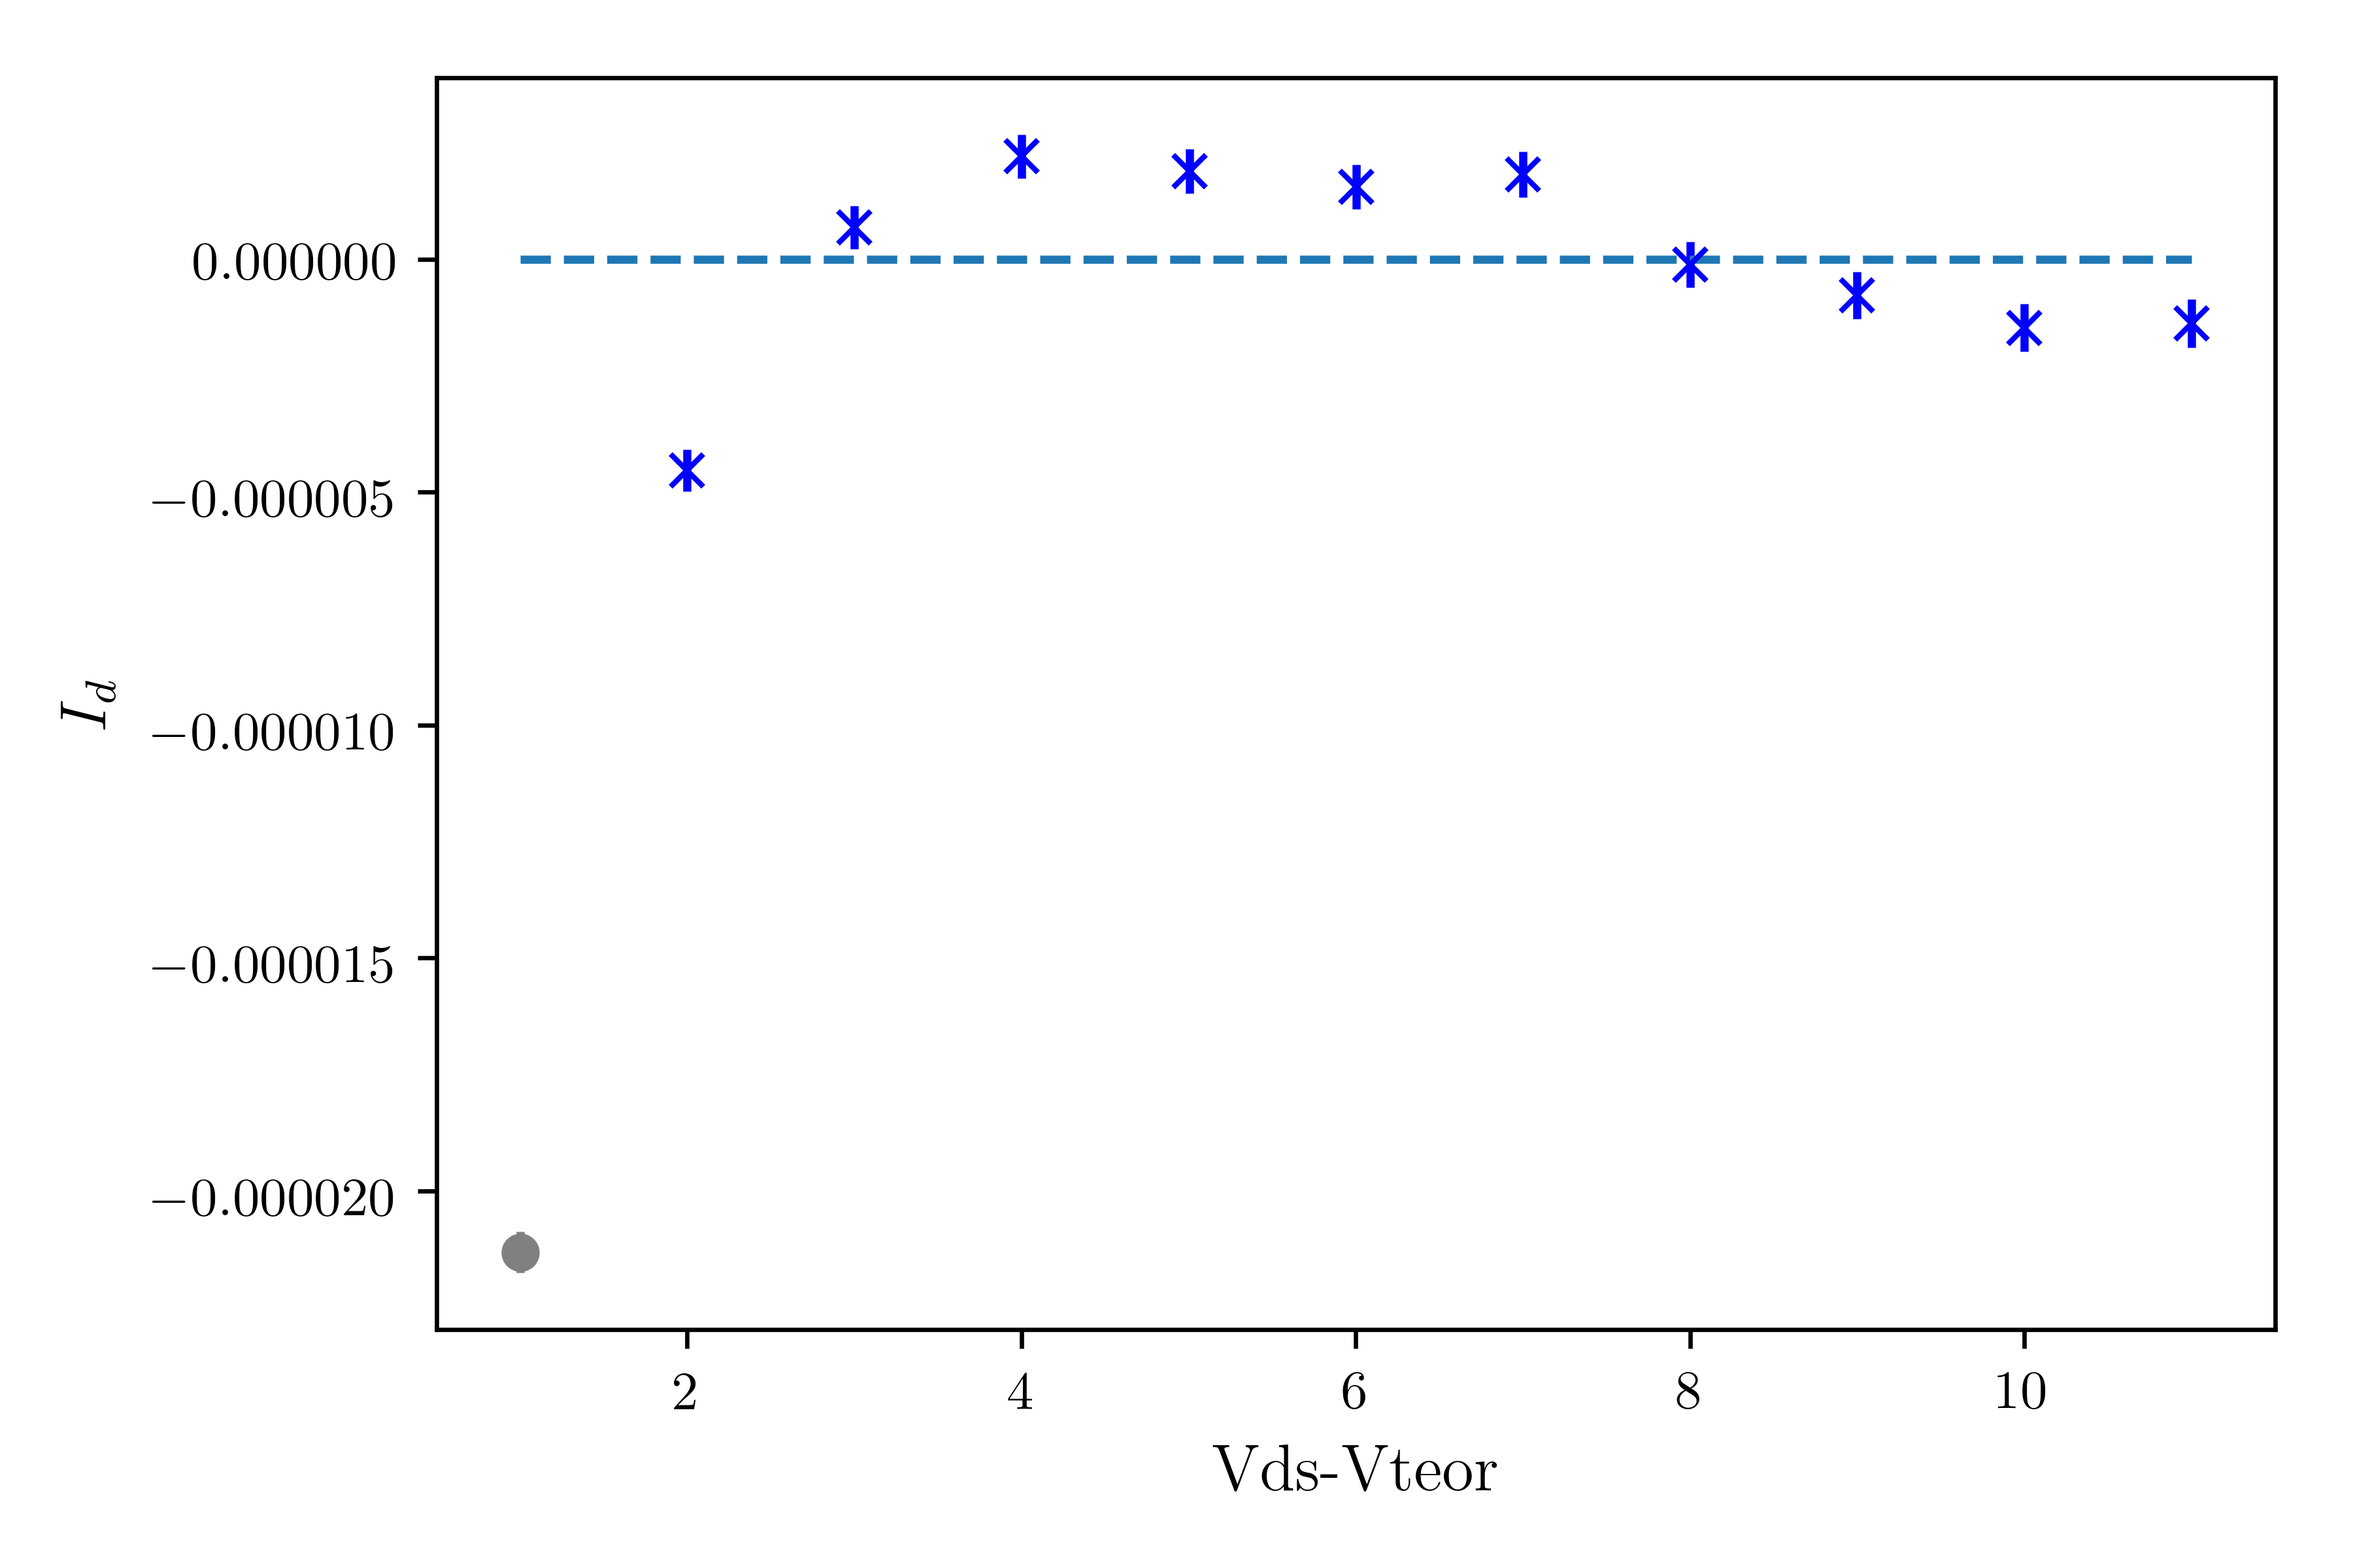
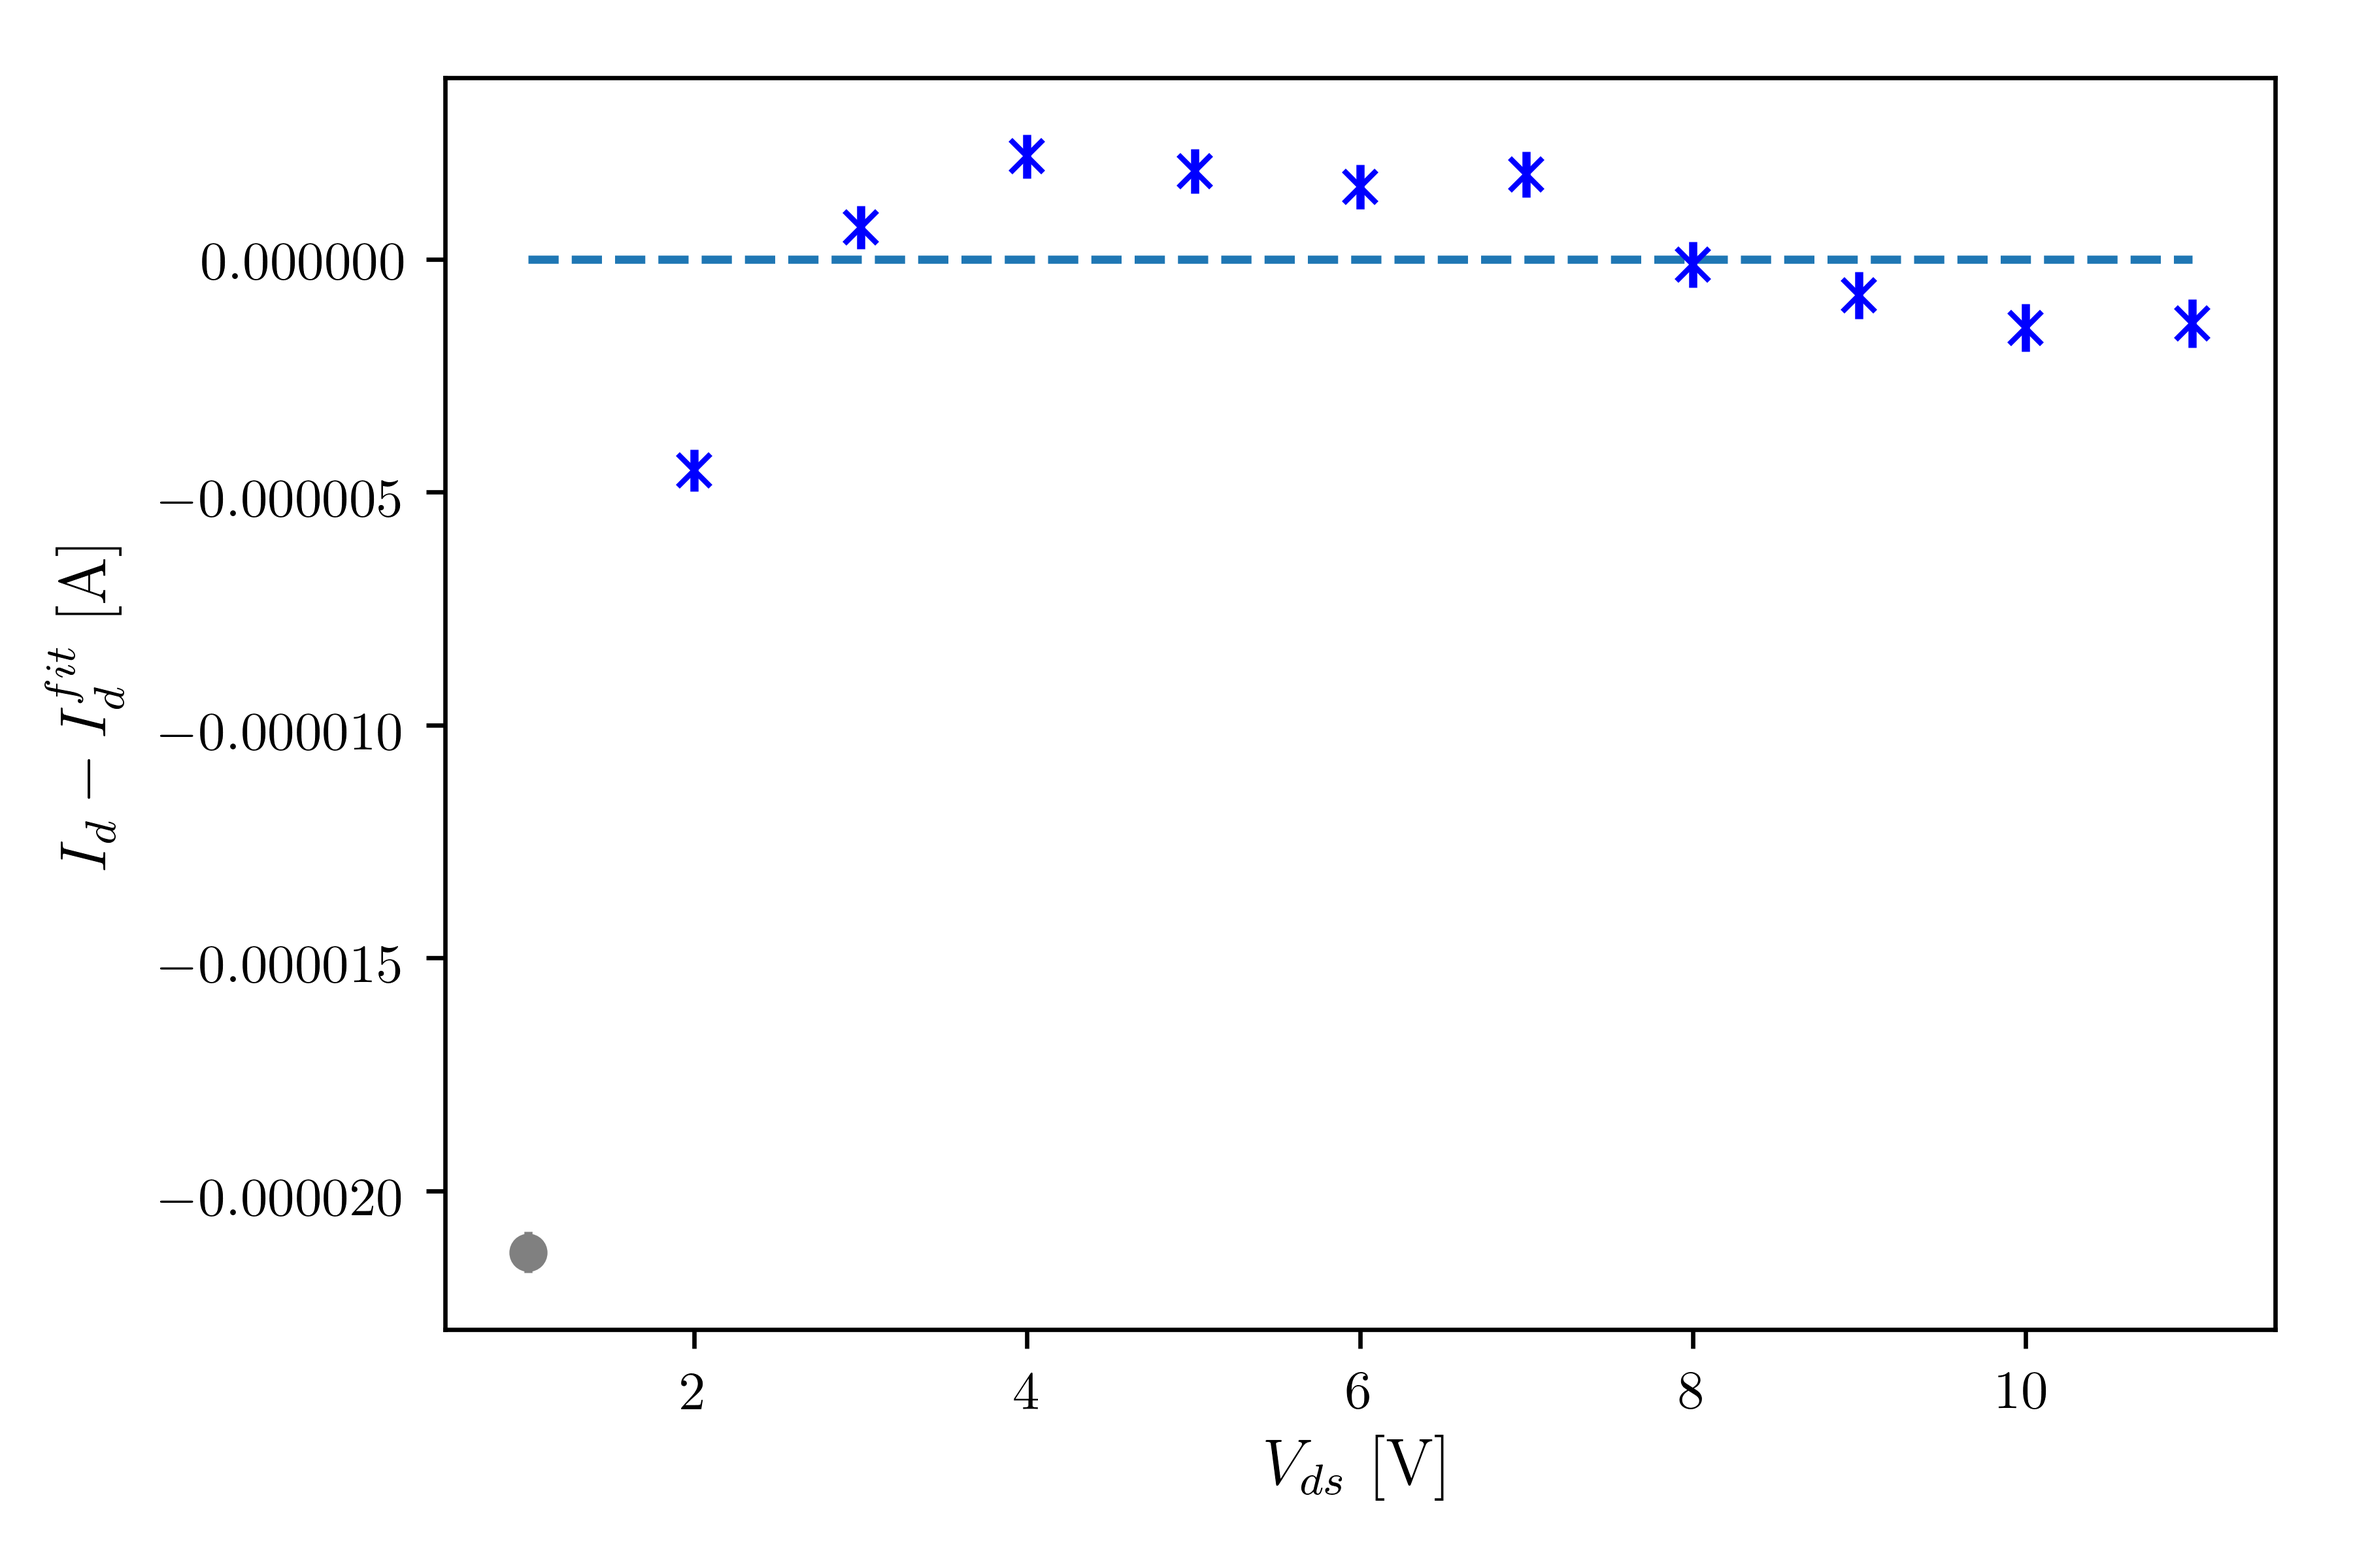
Corrected slight mistakes in figure labels, added computation of a couple variables we'd forgot.

diff --git a/mosfet_main.py b/mosfet_main.py
@@ -1,11 +1,11 @@
 from fits_multimeter_errors import *
 from mosfet_load_data_4 import *
 
-characteristic_12.full_plot('$V_{ds}$', '$I_d$', 'p12completo')
-characteristic_12.residuals_plot('Vds-Vteor', '$I_d$', 'p12residui')
+characteristic_12.full_plot('$V_{ds}$ [V]', '$I_d$ [A]', 'p12completo')
+characteristic_12.residuals_plot('$V_{ds}$ [V]', '$I_d - I_d^{fit}$ [A]', 'p12residui')
 
-characteristic_gs_13.full_plot('$V_{gs}$', '$Y$', 'p13completo')
-characteristic_gs_13.residuals_plot('$V_{gs}$', '$Y-Y_{model}$', 'p13residui')
+characteristic_gs_13.full_plot('$V_{gs}$ [V]', '$Y$ [A$^{1/2}$]', 'p13completo')
+characteristic_gs_13.residuals_plot('$V_{gs}$ [V]', '$Y-Y_{fit}$ [A$^{1/2}$]', 'p13residui')
 
 maximum_ignored_12 = 6
 values = np.empty((5, maximum_ignored_12))
@@ -79,7 +79,7 @@ for Vds in Vds_array:
     plt.plot(Vgs, I, label = ("$V_{DS} \\approx $ " + '{0:.{1}f}'.format(Vds, 1) + " V"))
 plt.errorbar(x=characteristic_gs_13.x_array, y=unumpy.nominal_values(I_d_13),
             yerr=unumpy.std_devs(I_d_13), fmt = 'bo', marker = 'x',
-            label = "Experimental data")
+            label = "Dati sperimentali")
 
 Imax = Id_v(Vds_array[-1], Vgs[-1], V_TN_13.n, k_n_13.n, lambda_n_12.n)
 

diff --git a/mosfet_load_data_2.py b/mosfet_load_data_2.py
@@ -18,16 +18,17 @@ V_DS_SPICE_21 = [5, 0.145]
 
 V_DS_21 = multimeter_error_array(V_DS_arr_21, V_DS_scale_arr_21, 'a', 'v')
 
-V_DS_th_21 = V_DD_21 - V_GS_21 #??? forse sbagliato
+V_DS_th_21 = V_DD_21 - V_GS_21 #inizializzazione di base, poi sistemata
+R_on_21 = 1/k_n_13 /(V_GS_21[1] - V_TN_13)
 
-
+V_DS_th_21[1] = V_DD_21 * R_on_21 / (R_on_21 + R[1])
 
 M_21 = np.stack((V_GS_21, V_GS_scale_arr_21, V_DS_21,
                  V_DS_scale_arr_21, V_DS_SPICE_21)).T
 
 col_names_21 = "$V_{GS}$ & v/div & $V_{DS}$ & v/div & $V_{DS}^{SPICE}$"
 
-#print_matrix(M_21, col_names_21)
+#print_matrix(M_21, col_names_21, uniform_units="V")
 
 lambda_array_21 = []
 

diff --git a/mosfet_load_data_3.py b/mosfet_load_data_3.py
@@ -119,7 +119,7 @@ Vars_36 = np.array([V_in_36, V_out_36, V_in_noload_36, V_out_noload_36,
                     R_out_36, R_out_cd_36])
 Units_36 = ["V", "V", "V", "V", "", "", "", "", "\Omega", "\Omega"]
 
-print_ufloat_array(Names_36, Vars_36, Units_36)
+#print_ufloat_array(Names_36, Vars_36, Units_36)
 
-ufloat_compatibility(A_exp_36, A_teor_36, True)
-ufloat_compatibility(A_exp_noload_36, A_teor_noload_36, True)
+#ufloat_compatibility(A_exp_36, A_teor_36, True)
+#ufloat_compatibility(A_exp_noload_36, A_teor_noload_36, True)
